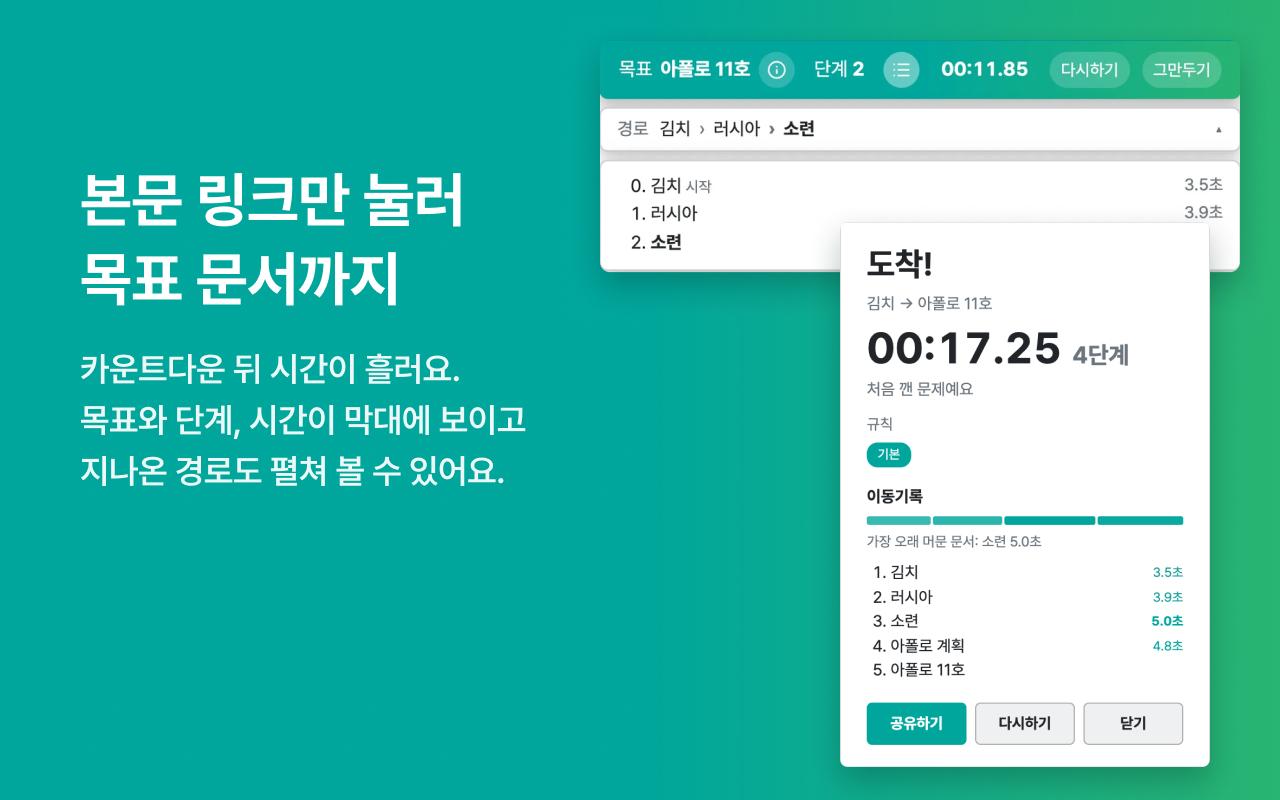
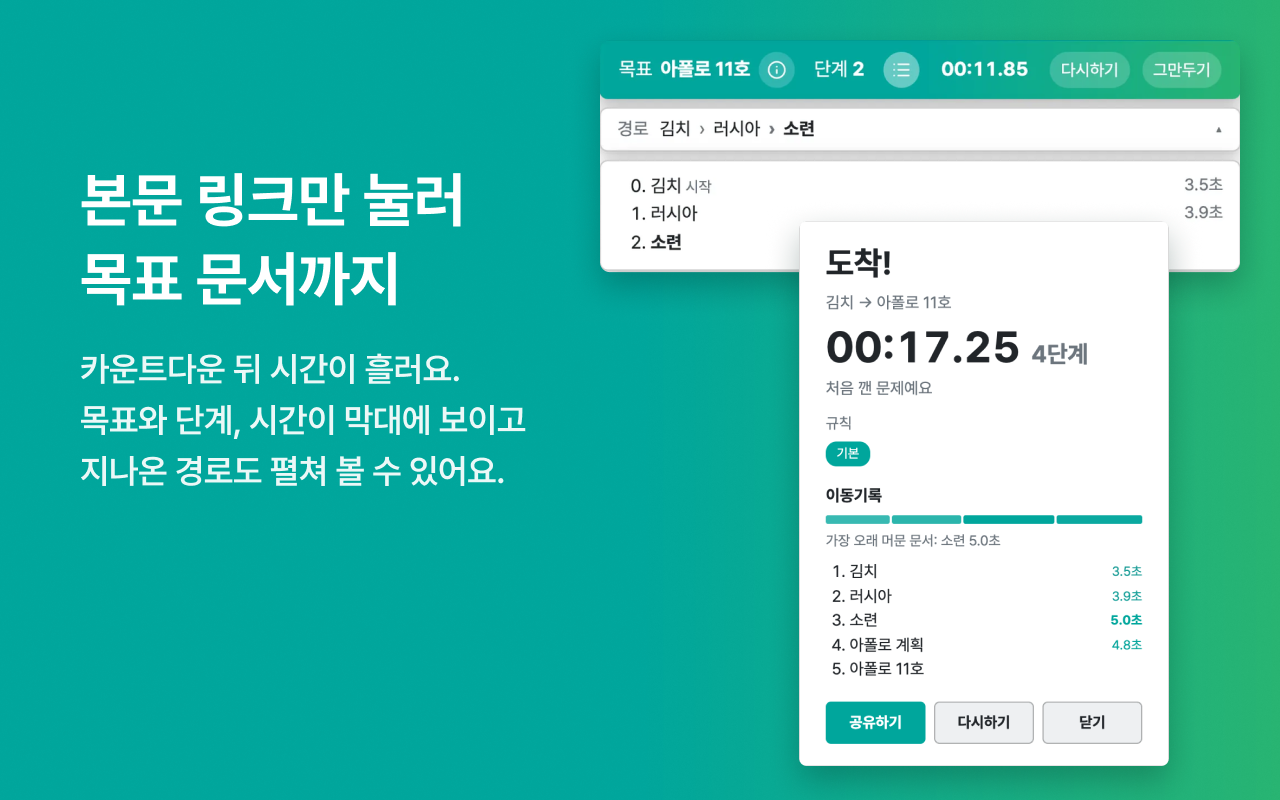
Figma 슬라이드 3, 4, 5 다시 내보냄, 랜딩 팝업 세 개를 너비가 되면 한 줄에

Changed region(s): [[0.5938, 0.3125, 0.9688, 0.9688]]

diff --git a/server/public/index.html b/server/public/index.html
@@ -17,8 +17,8 @@
   figure { margin: 0 0 22.5px; }
   .two { display: grid; grid-template-columns: 1fr 1fr; gap: 12px; margin-bottom: 22.5px; }
   .two figure { margin: 0; }
-  .pops { display: flex; flex-wrap: wrap; gap: 12px; margin-bottom: 22.5px; }
-  .pops figure { margin: 0; width: 280px; max-width: 100%; }
+  .pops { display: flex; flex-wrap: wrap; align-items: flex-start; gap: 12px; margin-bottom: 22.5px; }
+  .pops figure { margin: 0; flex: 1 1 200px; max-width: 280px; } /* 너비가 되면 세 개가 한 줄, 모자라면 줄바꿈 */
   figure > figcaption:first-child { margin: 0 0 6px; } /* 짧은 이름 캡션은 그림 위에 둔다 */
   .lead { font-size: 17px; }
   @media (max-width: 720px) { .two { grid-template-columns: 1fr; } }
